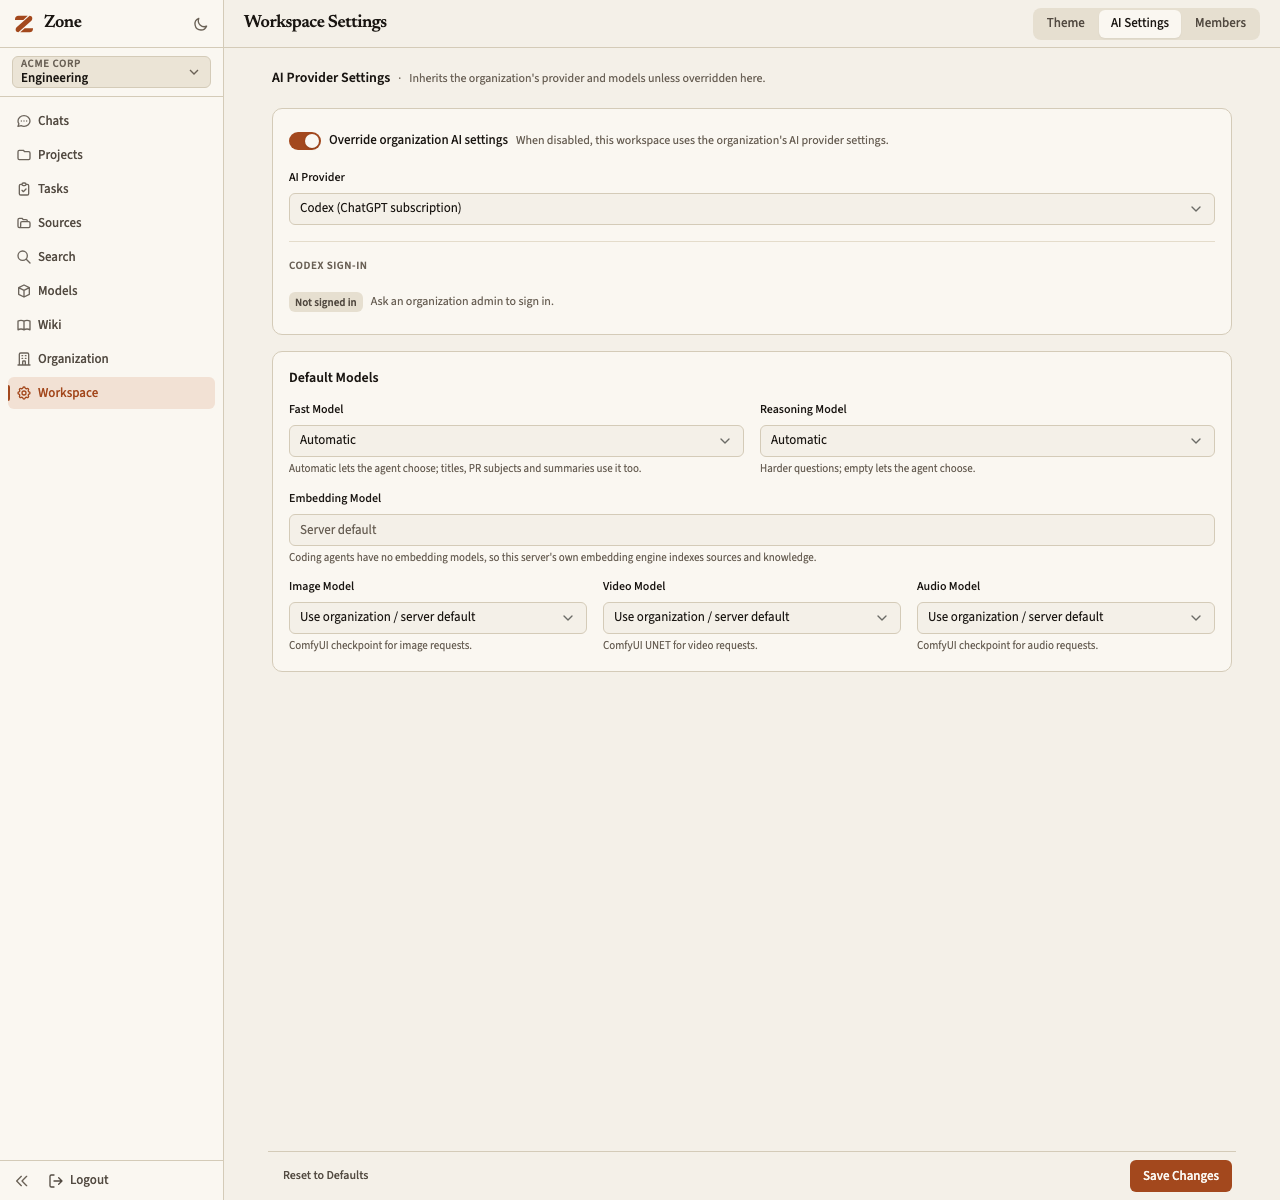
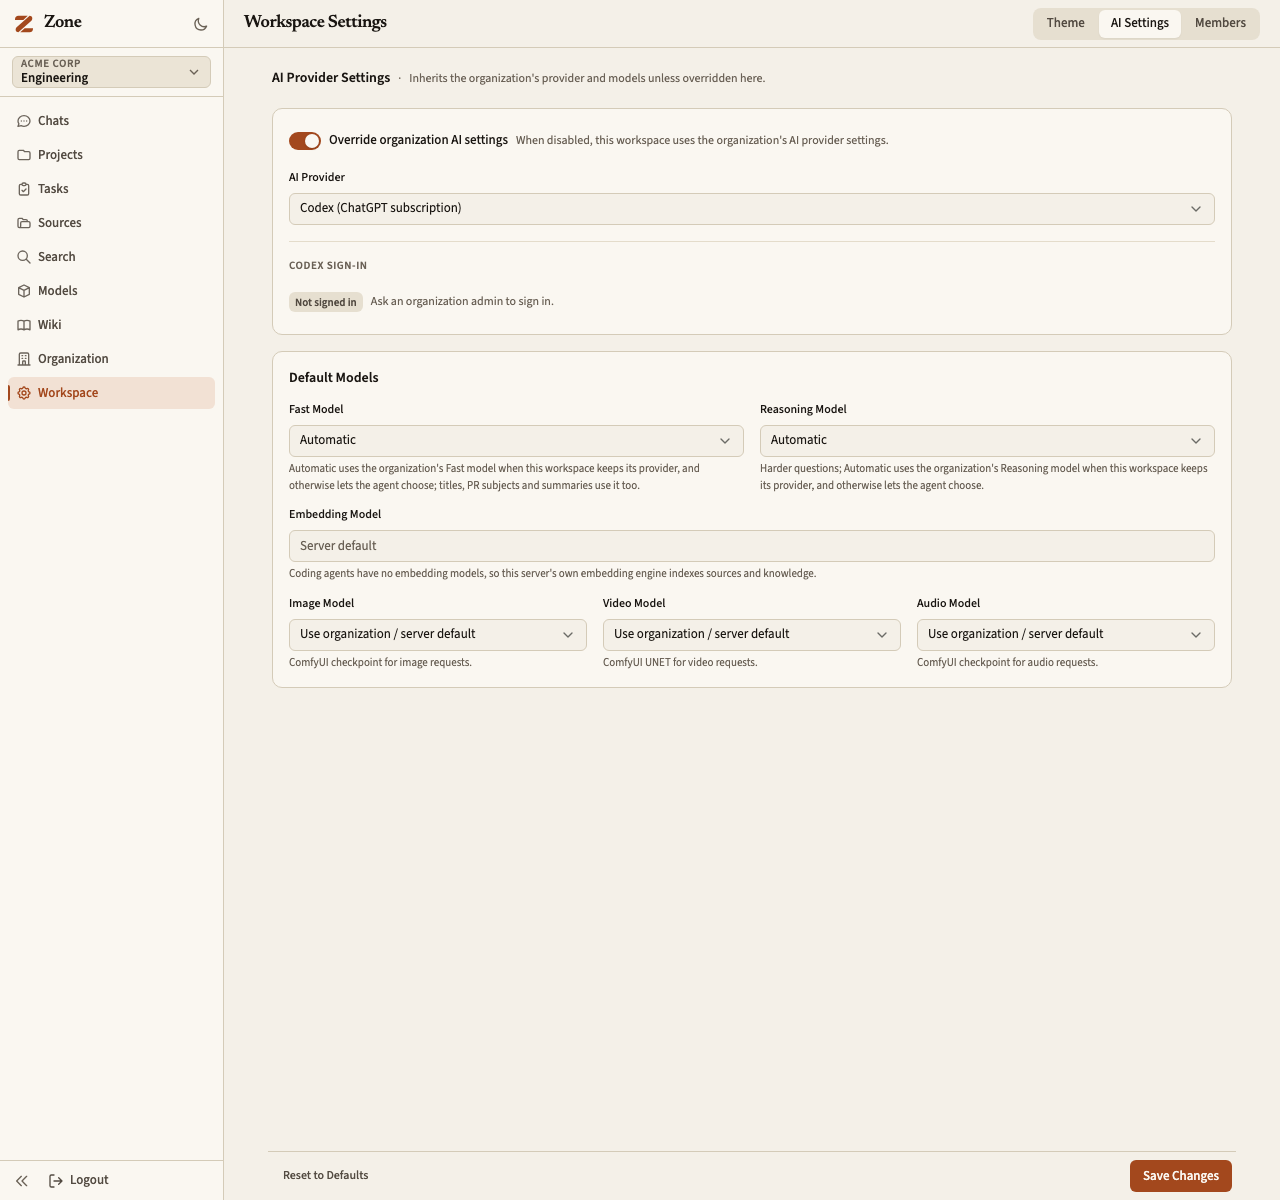
fix(settings): say what Automatic inherits on a workspace's model fields
A workspace that overrides to its organization's own provider inherits the
organization's saved Fast and Reasoning models for any field it leaves on
Automatic, and one that picks a different provider inherits neither. The
workspace page shared the organization page's hints, which said Automatic
lets the agent choose, so a workspace admin was told the agent would pick a
model when the organization's would run.

AiModelFields now takes the agent-provider hints as a prop, defaulting to
the organization page's unchanged wording, and the workspace page passes
its own: Automatic uses the organization's model when the workspace keeps
its provider, and otherwise lets the agent choose. The two member
screenshots of the workspace page were re-taken with the new hints.

diff --git a/manager/frontend/src/features/settings/ai/AiModelFields.tsx b/manager/frontend/src/features/settings/ai/AiModelFields.tsx
@@ -12,6 +12,16 @@ import {
 const AGENT_EMBEDDING_HINT =
   "Coding agents have no embedding models, so this server's own embedding engine indexes sources and knowledge.";
 
+export interface AgentModelHints {
+  fast: string;
+  reasoning: string;
+}
+
+const ORGANIZATION_AGENT_HINTS: AgentModelHints = {
+  fast: 'Automatic lets the agent choose; titles, PR subjects and summaries use it too.',
+  reasoning: 'Harder questions; empty lets the agent choose.',
+};
+
 function embeddingHint(provider: AiProvider, listed: boolean): string {
   if (isAgentProvider(provider)) return AGENT_EMBEDDING_HINT;
   if (listed) return 'Used to index sources and knowledge for retrieval.';
@@ -30,6 +40,7 @@ interface AiModelFieldsProps {
   embeddingOptions: string[];
   installedModels: InstalledModelOption[];
   inheritedLabel: string;
+  agentHints?: AgentModelHints;
 }
 
 function ModelSelect({
@@ -83,6 +94,7 @@ export function AiModelFields({
   embeddingOptions,
   installedModels,
   inheritedLabel,
+  agentHints = ORGANIZATION_AGENT_HINTS,
 }: AiModelFieldsProps) {
   const imageOptions = comfyImageOptions(installedModels, models.image).map((name) => {
     const row = installedModels.find((item) => item.name === name);
@@ -107,7 +119,7 @@ export function AiModelFields({
         blankLabel="Automatic"
         hint={
           agentic
-            ? 'Automatic lets the agent choose; titles, PR subjects and summaries use it too.'
+            ? agentHints.fast
             : 'Short replies, titles and intent classification. Empty picks from the installed models.'
         }
       />
@@ -119,9 +131,7 @@ export function AiModelFields({
         options={plain(reasoningOptions)}
         blankLabel="Automatic"
         hint={
-          agentic
-            ? 'Harder questions; empty lets the agent choose.'
-            : 'Harder questions; empty picks a larger installed model.'
+          agentic ? agentHints.reasoning : 'Harder questions; empty picks a larger installed model.'
         }
       />
       {embeddingOptions.length > 0 ? (

diff --git a/manager/frontend/src/features/settings/workspace/pages/WorkspaceSettingsPage.test.tsx b/manager/frontend/src/features/settings/workspace/pages/WorkspaceSettingsPage.test.tsx
@@ -908,6 +908,23 @@ describe('WorkspaceSettingsPage', () => {
         );
       });
 
+      it("says Automatic uses the organization's models while the workspace keeps its provider", async () => {
+        mockClient.getWorkspaceAiSettings.mockResolvedValue(codexOnly);
+        render(<WorkspaceSettingsPage />);
+        await openAiTab(userEvent.setup());
+
+        const hint = (label: string) =>
+          screen.getByLabelText(label).closest('.form-group')?.querySelector('.form-hint')
+            ?.textContent;
+        await screen.findByLabelText('Fast Model');
+        expect(hint('Fast Model')).toBe(
+          "Automatic uses the organization's Fast model when this workspace keeps its provider, and otherwise lets the agent choose; titles, PR subjects and summaries use it too."
+        );
+        expect(hint('Reasoning Model')).toBe(
+          "Harder questions; Automatic uses the organization's Reasoning model when this workspace keeps its provider, and otherwise lets the agent choose."
+        );
+      });
+
       it('does not ask for sign-in status while inheriting the organization', async () => {
         mockClient.getWorkspaceAiSettings.mockResolvedValue(inheritedAiSettings);
         mockClient.getEffectiveAiSettings.mockResolvedValue({ ...codexOnly, provider: 'codex' });

diff --git a/manager/frontend/src/features/settings/workspace/pages/WorkspaceSettingsPage.tsx b/manager/frontend/src/features/settings/workspace/pages/WorkspaceSettingsPage.tsx
@@ -14,6 +14,7 @@ import { useWorkspace } from '../../../../shared/context/WorkspaceContext';
 import { useAuth } from '../../../auth';
 import { useModels } from '../../../models';
 import {
+  type AgentModelHints,
   AgentSignIn,
   AiModelFields,
   AiProviderFields,
@@ -50,6 +51,12 @@ import './WorkspaceSettingsPage.css';
 type Tab = 'theme' | 'ai' | 'members';
 
 const TITLE = 'Workspace Settings';
+
+const AGENT_HINTS: AgentModelHints = {
+  fast: "Automatic uses the organization's Fast model when this workspace keeps its provider, and otherwise lets the agent choose; titles, PR subjects and summaries use it too.",
+  reasoning:
+    "Harder questions; Automatic uses the organization's Reasoning model when this workspace keeps its provider, and otherwise lets the agent choose.",
+};
 
 const fontOptions: { value: FontFamily; label: string }[] = [
   { value: 'system', label: 'System Default' },
@@ -735,6 +742,7 @@ export default function WorkspaceSettingsPage() {
                 embeddingOptions={choices.embedding}
                 installedModels={installedModels}
                 inheritedLabel="Use organization / server default"
+                agentHints={AGENT_HINTS}
               />
             </div>
           )}

diff --git a/manager/frontend/src/features/settings/organization/pages/OrgSettingsPage.test.tsx b/manager/frontend/src/features/settings/organization/pages/OrgSettingsPage.test.tsx
@@ -383,6 +383,10 @@ describe('OrgSettingsPage', () => {
       expect(fast.closest('.form-group')?.querySelector('.form-hint')?.textContent).toBe(
         'Automatic lets the agent choose; titles, PR subjects and summaries use it too.'
       );
+      const reasoning = screen.getByLabelText('Reasoning Model');
+      expect(reasoning.closest('.form-group')?.querySelector('.form-hint')?.textContent).toBe(
+        'Harder questions; empty lets the agent choose.'
+      );
     });
 
     describe('after the provider changes', () => {

diff --git a/manager/frontend/src/features/settings/ai/index.ts b/manager/frontend/src/features/settings/ai/index.ts
@@ -1,5 +1,5 @@
 export { AgentSignIn } from './AgentSignIn';
-export { AiModelFields } from './AiModelFields';
+export { type AgentModelHints, AiModelFields } from './AiModelFields';
 export { AiProviderFields } from './AiProviderFields';
 export * from './options';
 export { useAgentStatuses } from './useAgentStatuses';
